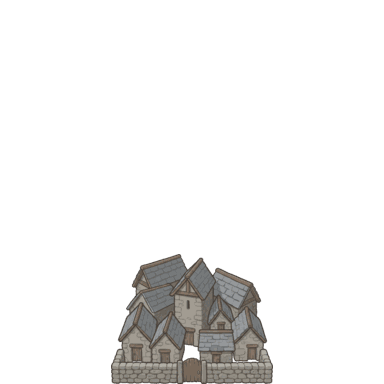
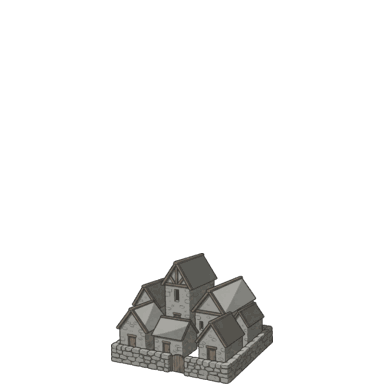
feat(combat): 戦闘の重ね絵を拠点の持ち主で選ぶ（盤のタイルと同じ作法）
戦闘窓の重ね絵（奥・中央・手前）は中立の1枚を決め打ちで読んでいた。占領されている
拠点は `{skin_id}_team{N}_combat_{slot}.png` があればそれを使い、無ければ中立の絵の
ままにする＝絵を置けば切り替わる（CSVもコードも触らない）。盤のタイルの team 差し替え
と同じ規則にそろえた。

持ち主は BattleState から開くたびに引く＝占領されれば次の戦闘から新しい絵になる。
結線は地形スキンと同じくステージ読み込みで main が渡す。舞台を共有するスキルの演出も
同時に渡す。

あわせて拠点「町」の盤の駒を新しい原画から書き出し直した。_team0/_team1 は
terrain_skin.csv に行を持たず map_scale が引けなかったので、gen_terrain_tile.ps1 が
末尾の _team{N} を落として本体の行を読むようにした＝3枚が同じ幅で出る（占領で貼り
替えても駒が跳ねない）。書き出しの手順は fort_town1_recipe.txt に残す。

Changed region(s): [[0.2812, 0.6562, 0.7188, 1.0]]

diff --git a/doc/art/terrain.md b/doc/art/terrain.md
@@ -15,7 +15,7 @@
 - 現状は「1地形1枚・接地による遷移なし」。各ヘックスが地形の自己完結アイコン（Into the Breach 系）。
 - 同じPNGを戦闘演出シーンの地面にも敷く（[../tech/combat_scene.md](../tech/combat_scene.md)）。盤より寄って映る＝繰り返しと継ぎ目が見えやすいので、反復対策（変種・回転）は盤のためだけの措置ではない。
 - 足場とオブジェクトで描くものが違う（→ [../gdd/terrain.md](../gdd/terrain.md)）。足場は上面（ヘックスを覆う真上からの1枚）と側面（段差に貼る左右シームレスの帯）の2枚。盤が基準高さを持つと段差は盤のいたるところに出るので、側面は足場スキンの必須枚数になる。オブジェクトは立ち絵1枚で、カメラに正対する描き方は駒と同じ。ただし大きさの物差しは駒と別で、384px四方のキャンバスに「204.8px×`map_scale`」の幅で下端揃えに置く。204.8px はそのキャンバス上のヘックス1個ぶんの幅（キャンバス全高＝3.75タイル＝`board_terrain_renderer.gd` の `CANVAS_TILES`、ヘックスの幅＝2タイル）なので、`map_scale` は「ヘックスの幅の何割を占めるか」を表す。駒が背丈（ファイター何体ぶん）で測るのに対し幅で測るのは、盤の読みが「そのマスからはみ出していないか」で決まるため。大小の差はキャンバスの余白が持つ。書き出しは [gen_terrain_tile.ps1](../../tools/gen_terrain_tile.ps1) の `-Object`（値が空なら止まる＝既定に倒さない）。足元をマス中心のどれだけ手前に置くかは `object_foot_z`（→ [../gdd/terrain.md](../gdd/terrain.md)）。置き方が `panel` のオブジェクト（柵）は例外で、ワールドに向きを持って立てた板になる＝絵は横から見た1枚 `{skin_id}_side.png`（足場の側面と同じ置き場・同じ作法）。向きは板の置き方が出すので、繋がり方別に64枚を持たない。板の幅は盤の形が決めていて動かせない（中心→辺の中点＝0.866タイル）ので、高さは絵の縦横比から出す。キャンバスの幅を89px（0.866タイル×駒と同じ刻み＝384px/3.75タイル）にすると、柵の背丈も立ち絵と同じ物差しに乗る。置き方が `flat` のオブジェクト（橋）はタイルの絵そのもの＝立ち絵ではなく地形の作法で作る（§3.7）。置き方の3種は [../gdd/terrain.md](../gdd/terrain.md) が正本。
-- オブジェクトは戦闘にも出る（→ [../tech/combat_scene.md](../tech/combat_scene.md)）。盤の立ち絵とは別に描く。盤は1マス30〜70pxでシルエットを読ませる絵、戦闘は窓の3〜4割を占める近景で、要る情報量が違う。俯角も盤52°に対し戦闘42°＝戦闘のほうが立って見えるので、門や壁面はこちらで見せる。奥用 `{skin_id}_combat_back.png` は守り手側の半面に渡す帯で、幅が高さの約2倍。外側（左）の端は塀も町も画面の外へ抜けて切れ、内側（右）の端は角を曲がって奥へ引いて終わらせる＝切りっぱなしにすると宙に浮く。左陣営向きに描き、右陣営では演出側が左右反転して使う。大小は窓が決めるので、キャンバスの余白は持たせない＝トリムのみで書き出す（余白で大小を持つのは盤の立ち絵だけ）。中央用 `{skin_id}_combat_line.png` は両隊列の間の継ぎ目に立てる1枚（柵・城壁を「壁越しの対峙」の絵にする＝壁越しにするかは絵の有無で決まる）。窓の全高に引き伸ばされ、幅は絵の縦横比が決める＝手前（下）から奥（上）へ走る遠近は絵に焼き込む。手前用 `{skin_id}_combat_front.png` は窓の全幅に渡る低い帯で、前列の足元に被るぶん暗いシルエット寄りに描く＝細部を描き込むと駒と喧嘩する。置ける高さは窓の下2割（前列の足元が窓の高さの0.8、兵量バーが0.89〜0.92）。
+- オブジェクトは戦闘にも出る（→ [../tech/combat_scene.md](../tech/combat_scene.md)）。盤の立ち絵とは別に描く。盤は1マス30〜70pxでシルエットを読ませる絵、戦闘は窓の3〜4割を占める近景で、要る情報量が違う。俯角も盤52°に対し戦闘42°＝戦闘のほうが立って見えるので、門や壁面はこちらで見せる。奥用 `{skin_id}_combat_back.png` は守り手側の半面に渡す帯で、幅が高さの約2倍。外側（左）の端は塀も町も画面の外へ抜けて切れ、内側（右）の端は角を曲がって奥へ引いて終わらせる＝切りっぱなしにすると宙に浮く。左陣営向きに描き、右陣営では演出側が左右反転して使う。大小は窓が決めるので、キャンバスの余白は持たせない＝トリムのみで書き出す（余白で大小を持つのは盤の立ち絵だけ）。占領で見た目が変わる拠点は、3スロットとも所有チーム別の絵を持てる＝`{skin_id}_team{N}_combat_{slot}.png`。盤のタイル（`{skin_id}_team{N}.png`）と同じで、置けば切り替わり、置かなければ中立の絵のまま（CSVもコードも触らない）。盤の駒と戦闘の絵で陣営色が食い違わないよう、色は言葉ではなく採用済みの絵から抽出した値で指定する。中央用 `{skin_id}_combat_line.png` は両隊列の間の継ぎ目に立てる1枚（柵・城壁を「壁越しの対峙」の絵にする＝壁越しにするかは絵の有無で決まる）。窓の全高に引き伸ばされ、幅は絵の縦横比が決める＝手前（下）から奥（上）へ走る遠近は絵に焼き込む。手前用 `{skin_id}_combat_front.png` は窓の全幅に渡る低い帯で、前列の足元に被るぶん暗いシルエット寄りに描く＝細部を描き込むと駒と喧嘩する。置ける高さは窓の下2割（前列の足元が窓の高さの0.8、兵量バーが0.89〜0.92）。
 - 【視覚】地形は盤上で標高を持てる（見た目のみ・性能不変）。マスの高さは 行の基準＋列の基準＋スキンの `elevation` の和で、前2つはステージが持つ（→ [../gdd/terrain.md](../gdd/terrain.md) 盤の高さ）。スキン側の高さは [terrain_skin.csv](../../data/terrain/terrain_skin.csv) の `elevation` 列＝地形タイプではなくスキンごとに持ち、[hex_board_3d.gd](../../presentation/board/hex_board_3d.gd) がその値でタイルを持ち上げ、低い隣接辺／盤外辺に段差のスカートを下ろしてメサに見せる。値の単位は TILE=1.0（中心〜頂点）。ユニット・影・グリッド・拠点・オーバーレイ・クリック判定（ピッキング）も標高に追従する。
 - 【視覚】高さが「地形の厚み」なら、駒がその上に立つか中に立つかは `terrain_skin.csv` の `floor`（駒の足元の高さ）が決める。よじ登る地形（城壁）は `floor`＝`elevation`＝上面に立つ。木々の間の地面に居るべき地形（森・茂み）は `floor` を地面の高さ（0）にする。上面に揃えると駒が梢の上に立って見える。逆に `floor` が `elevation` より高い地形（水面）では駒が浮く＝飛んでいる見た目になる（→ [../gdd/terrain.md](../gdd/terrain.md) 盤の高さ）。
 - 帯で描く地形（道）は高さを持たせない。高さはマス単位で、帯の外側の地面まで一緒に上下するため、沈めれば「六角形に窪んだ穴の底に草の縁取りがある」形になり、上げれば帯の縁に段差とスカートが出る。立体感が要るなら、高さではなく絵の側（縁に内向きの暗い縁を引く）で出す。

diff --git a/doc/tech/combat_scene.md b/doc/tech/combat_scene.md
@@ -14,6 +14,7 @@
 - 盤の並びは写さず、それぞれの半分をそのスキンで敷き詰める＝同じ地形の組み合わせなら毎回同じ構図になり読める。タイルの絵をそのまま敷けないスキン（オブジェクト・線地形）は `terrain_skin.csv` の `combat_ground` 列が下地を指す（空＝自分自身で敷き詰める・既定）。
   - オブジェクトのスキン自身は帯に混ぜず、下記の重ね絵スロットで2Dで出す。地面が奥へ行くほどタイルを縮めて重ねる作りなので、混ぜると奥では小さく靄に沈み、手前では立ち絵に隠れる。重ねる側に出せば大きさが帯と切り離せる。
 - 地面の上に重ねる絵は3スロット。どれも守り手側のスキンから引き、`assets/terrain/{skin_id}_combat_back.png`（奥）／`{skin_id}_combat_line.png`（中央の継ぎ目）／`{skin_id}_combat_front.png`（手前）を持てる。置いてある絵だけを出す＝1枚だけでも、全部無くて地面だけでもよい。盤の立ち絵は使わない（戦闘は近景で、要る絵が違う → [../art/terrain.md](../art/terrain.md)）。
+  - そのマスが占領されている拠点なら、所有チーム別の絵があればそちらを使う＝`{skin_id}_team{N}_combat_{slot}.png` を置けば切り替わり、置かなければ中立の絵のまま（盤のタイルと同じ作法 → [../art/terrain.md](../art/terrain.md)）。持ち主は盤の状態から開くたびに引く＝戦闘中に占領されても次の戦闘から新しい絵になる。
   - 奥は守り手側の半面いっぱいに渡す帯。幅を窓の半分に合わせ、高さは絵の縦横比が決める（屋根が窓から出る絵は、出ない大きさまで縮める）。下端は隊列の頭が少し被る高さ＝奥に建っていると読める。全幅に広げないのは、拠点や堂が誰の拠り所かを絵で言うため。外側の端は窓の外へ抜け、内側の端だけが画の中で終わる＝絵は左陣営向きに描き、右陣営では左右反転して使う。塊を1個浮かべる置き方（キャンバスの余白で大小を持つ・立ち絵と同じ仕組み）は、絵の端がどこにも接がらず宙に浮くのでやめた。
   - 中央は継ぎ目（両隊列の間）に立てる1枚。柵や城壁を「壁越しの対峙」の絵にするのに使う＝壁越しにするかは絵の有無で決まる（コードでもCSVでも決めない）。手前（下）から奥（上）へ走るので窓の全高に渡し、幅は絵の縦横比が決める。立ち絵より下のレイヤー＝隊列は手前に出る。
   - 手前は窓の下辺に沿って、味方側から敵側まで全幅に渡す帯。前列の足元に少し被せて額縁にする。高さは絵の縦横比が決める。
